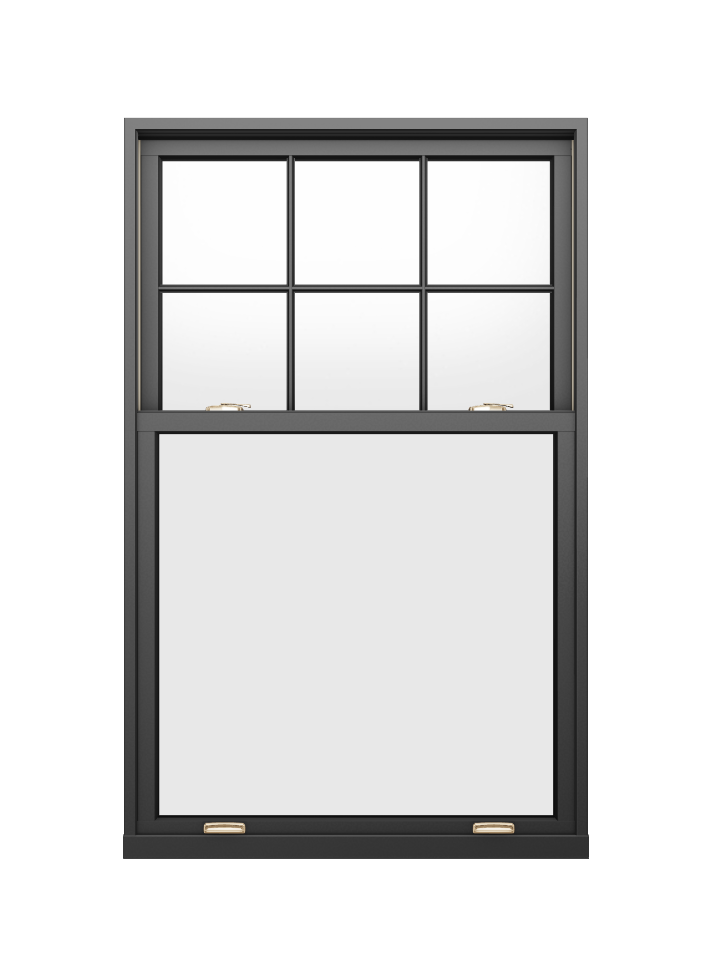
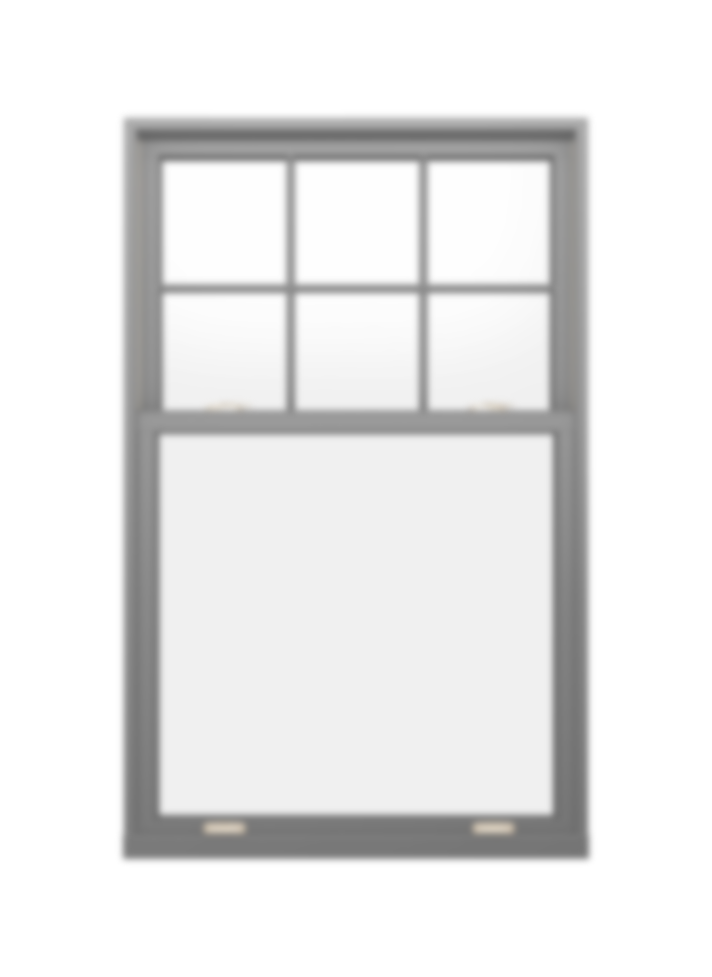
loading

Changed region(s): [[0.1545, 0.1228, 0.8343, 0.8905]]

diff --git a/index.html b/index.html
@@ -33,6 +33,35 @@ Files hosted on this website are property of Renewal by Andersen LLC.
   <script src="https://ajax.googleapis.com/ajax/libs/jquery/3.4.1/jquery.min.js"></script>
   <script src="https://cdnjs.cloudflare.com/ajax/libs/popper.js/1.14.7/umd/popper.min.js"></script>
   <script src="https://maxcdn.bootstrapcdn.com/bootstrap/4.3.1/js/bootstrap.min.js"></script>
+	  <style>
+  #progress {
+    position: absolute;
+    width: calc(100% / 3);
+    height: 10px;
+    color: rgb(244, 122, 63);
+    box-shadow: 0px 0px 8px 6px rgba(0, 0, 0, 0.25);
+    border: 2px solid currentColor;
+    border-radius: 10px;
+    top: calc(50% - 5px);
+    left: calc(50% - 100% / 6);
+    opacity: 0;
+    transition: opacity 0.3s 0.3s;
+  }
+
+  #progress.show {
+    transition-delay: 0s;
+    opacity: 1;
+  }
+
+  #progress>.bar {
+    width: 100%;
+    height: 100%;
+    background-color: currentColor;
+    transform-origin: top left;
+    transform: scaleX(0);
+  }
+</style>
+
   </head> 
 <body>
  
@@ -59,12 +88,20 @@ Files hosted on this website are property of Renewal by Andersen LLC.
                 camera-controls
                 ios-src="webAssets/001/01_W_DG_V03.usdz"
                 quick-look-browsers="safari chrome"
-				 camera-orbit="0deg 90deg" 
-				poster="webAssets/001/Asset 1.png"
+				camera-orbit="0deg 90deg" 
+				poster="webAssets/001/Asset 3.png"
 				
               >
 	   <img src="webAssets/AR_Button.svg" alt="ar button" style="width: 130px; position: absolute; top: 16px; right: 16px;" slot="ar-button">
-</model-viewer>
+	   
+	  <div id="progress" slot="progress-bar">
+    <div class="bar"></div>
+		  
+		  <br>
+		  <h4 style="text-align: center">Loading...</h4>
+  </div>
+
+	  </model-viewer>
 
 	  <!-- Button to Open the Modal -->
 <button type="button" class="btn btn-warning font-weight-bold" data-toggle="modal" data-target="#myModal" >
@@ -150,6 +187,20 @@ Files hosted on this website are property of Renewal by Andersen LLC.
   <kbd >Please contact <a class="text-warning" href="mailto:mert.okyay@andersencorp.com">mert.okyay@andersencorp.com</a> for assistance.</kbd>
 </div>
   
+	
+	<script>
+  const modelViewer = document.querySelector('model-viewer');
+  const progress = document.querySelector('#progress');
+  const bar = progress.querySelector('.bar');
+
+  modelViewer.addEventListener('progress', (event) => {
+    const {totalProgress} = event.detail;
+    progress.classList.toggle('show', totalProgress < 1);
+    bar.style.transform = `scaleX(${totalProgress})`;
+  });
+</script>
+	
+	
 	
   <!-- Loads <model-viewer> for modern browsers: -->
 <script type="module"

diff --git a/demo-styles.css b/demo-styles.css
@@ -35,6 +35,8 @@ body {
 model-viewer {
   width: 100%;
   height: 600px;
+--progress-bar-height: 10px;
+	--progress-bar-color: rgb(244, 122, 63)
 }
 
 .attribution {
